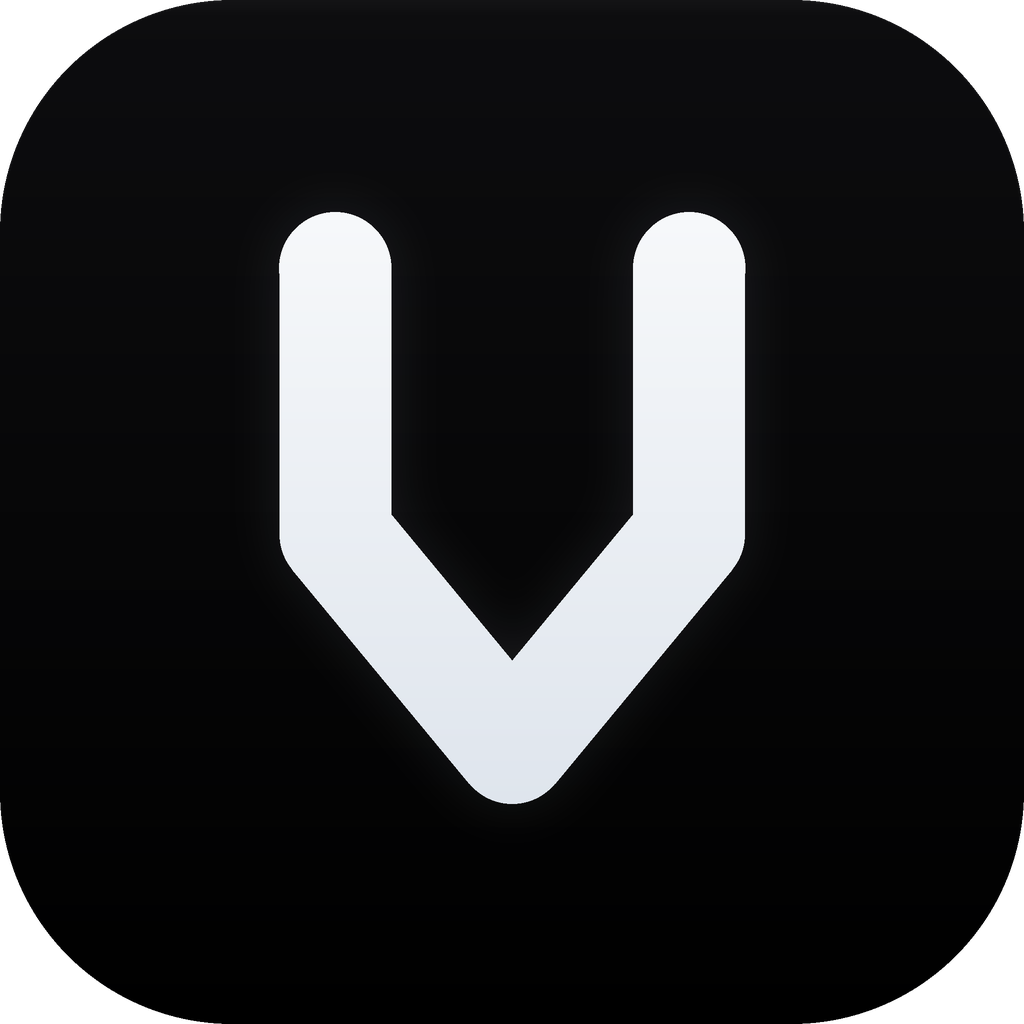
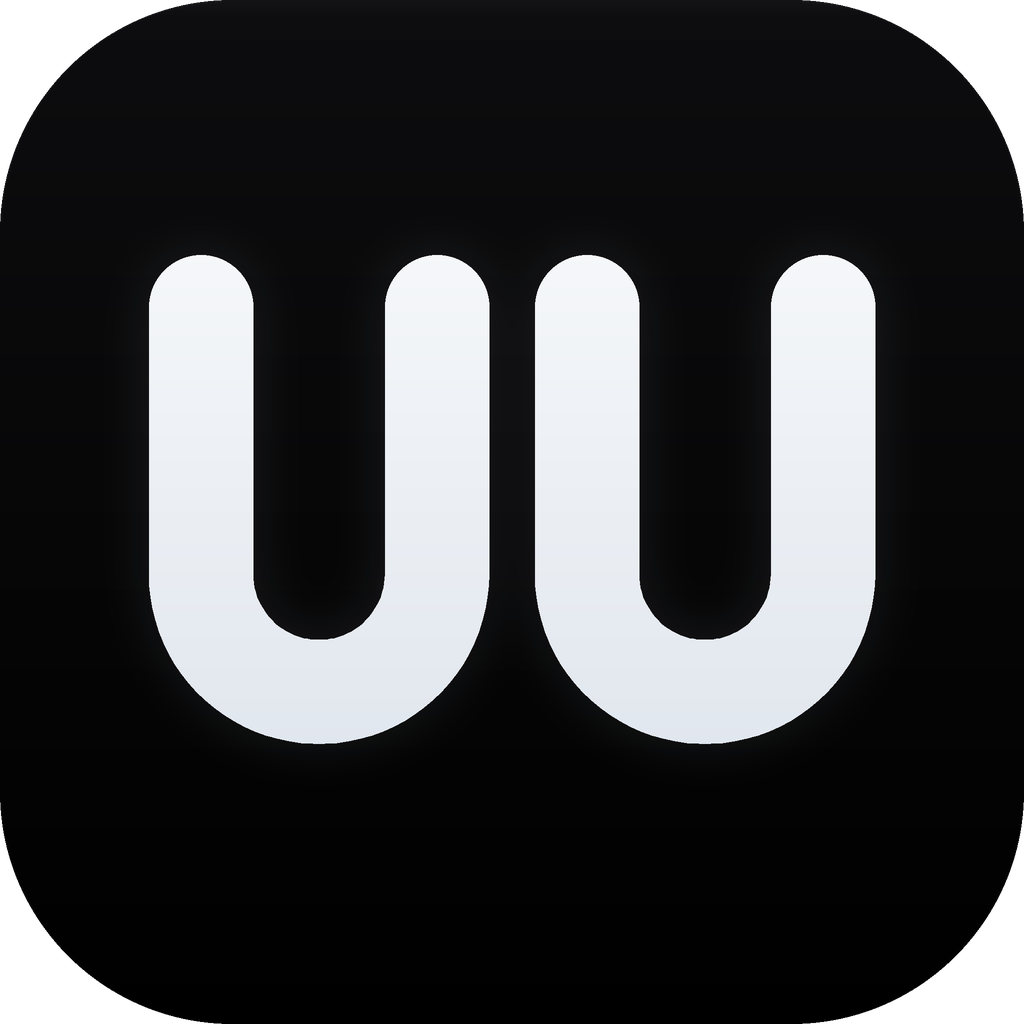
The mark is the UU
The pointed-U tile was no one's icon: invented letterform, no relationship to
anything UU. The family is the letter pair — that is what UU Chat is recognised
by — so the launcher mark is now the monogram itself, one weight of stroke,
white on black, nothing added to explain it.

Each letter is a single filled contour rather than a stroked polyline, which had
grown spikes at its joins and a seam where the bowl met the stems.

1.3.1 (versionCode 12).

Changed region(s): [[0.125, 0.1875, 0.875, 0.7812]]

diff --git a/icon/generate_icon.py b/icon/generate_icon.py
@@ -12,6 +12,7 @@ Run from the repository root:
 """
 from __future__ import annotations
 
+import math
 import pathlib
 
 from PIL import Image, ImageDraw, ImageFilter
@@ -62,39 +63,65 @@ def soft_radial(centre: tuple[float, float], radius: float, peak: int = 255) -> 
 
 def glyph_mask(scale: float = 1.0, offset_y: float = 0.0) -> Image.Image:
     """
-    The mark: a U whose bowl comes to a point, which makes it read as a down arrow too.
+    The mark is the UU: two Us in one weight of stroke, white on black.
 
-    The first version was an arrow dropping into a tray — the same picture every downloader
-    uses. This one carries the initial instead: one stroke, no tray, no art, and it still says
-    "down" because the bottom is a point rather than a curve.
+    Two earlier attempts missed in opposite directions — an arrow dropping into a tray, which
+    is every downloader's icon, and then a single U with a pointed bowl, which is no one's.
+    UU Chat's mark is the letter pair; the family is the letterform, not a pictogram of the
+    verb. So this is the monogram, drawn clean, with nothing added to explain it.
+
+    Each letter is one filled polygon — outer contour down and around, inner contour back up —
+    so the bowl and the uprights are the same solid shape. Drawing them as separate pieces left
+    a horizontal seam where the round bottom met the stems.
     """
     mask = Image.new("L", (S, S), 0)
     draw = ImageDraw.Draw(mask)
 
-    cx = 512.0
-    cy = 512.0 + offset_y
+    centre_y = S / 2 + offset_y * SS
+    stroke = 104 * SS * scale
+    half = 118 * SS * scale
+    gap = 46 * SS * scale
+    top = centre_y - 205 * SS * scale
+    bowl = centre_y + 62 * SS * scale
 
-    def x(v: float) -> float:
-        return scaled(cx + v * scale)
-
-    def y(v: float) -> float:
-        return scaled(cy + v * scale)
-
-    stroke = int(round(scaled(112 * scale)))
-    half = 177.0
-    draw.line(
-        [(x(-half), y(-244)), (x(-half), y(22)), (x(0), y(236)), (x(half), y(22)), (x(half), y(-244))],
-        fill=255,
-        width=stroke,
-        joint="curve",
+    width_u = (half * 2) + stroke
+    total = (width_u * 2) + gap
+    centres = (
+        S / 2 - (total / 2) + width_u / 2,
+        S / 2 + (total / 2) - width_u / 2,
     )
-    # Square-ish ends, softened just enough not to look cut off at 48dp.
-    for end_x, end_y in ((-half, -244), (half, -244)):
+
+    outer_radius = half + stroke / 2
+    inner_radius = half - stroke / 2
+
+    for centre in centres:
+        outline = [(centre - outer_radius, top), (centre - outer_radius, bowl)]
+        for step in range(0, 181, 4):
+            angle = math.radians(180 - step)
+            outline.append((
+                centre + outer_radius * math.cos(angle),
+                bowl + outer_radius * math.sin(angle),
+            ))
+        outline.append((centre + outer_radius, top))
+        outline.append((centre + inner_radius, top))
+        outline.append((centre + inner_radius, bowl))
+        for step in range(0, 181, 4):
+            angle = math.radians(step)
+            outline.append((
+                centre + inner_radius * math.cos(angle),
+                bowl + inner_radius * math.sin(angle),
+            ))
+        outline.append((centre - inner_radius, top))
+        draw.polygon(outline, fill=255)
+
+        # Rounded tops, drawn over the flat ends.
         radius = stroke / 2
-        draw.ellipse(
-            [x(end_x) - radius, y(end_y) - radius, x(end_x) + radius, y(end_y) + radius],
-            fill=255,
-        )
+        for arm in (-half, half):
+            draw.ellipse(
+                [centre + arm - radius, top - radius, centre + arm + radius, top + radius],
+                fill=255,
+            )
+
     return mask
 
 
